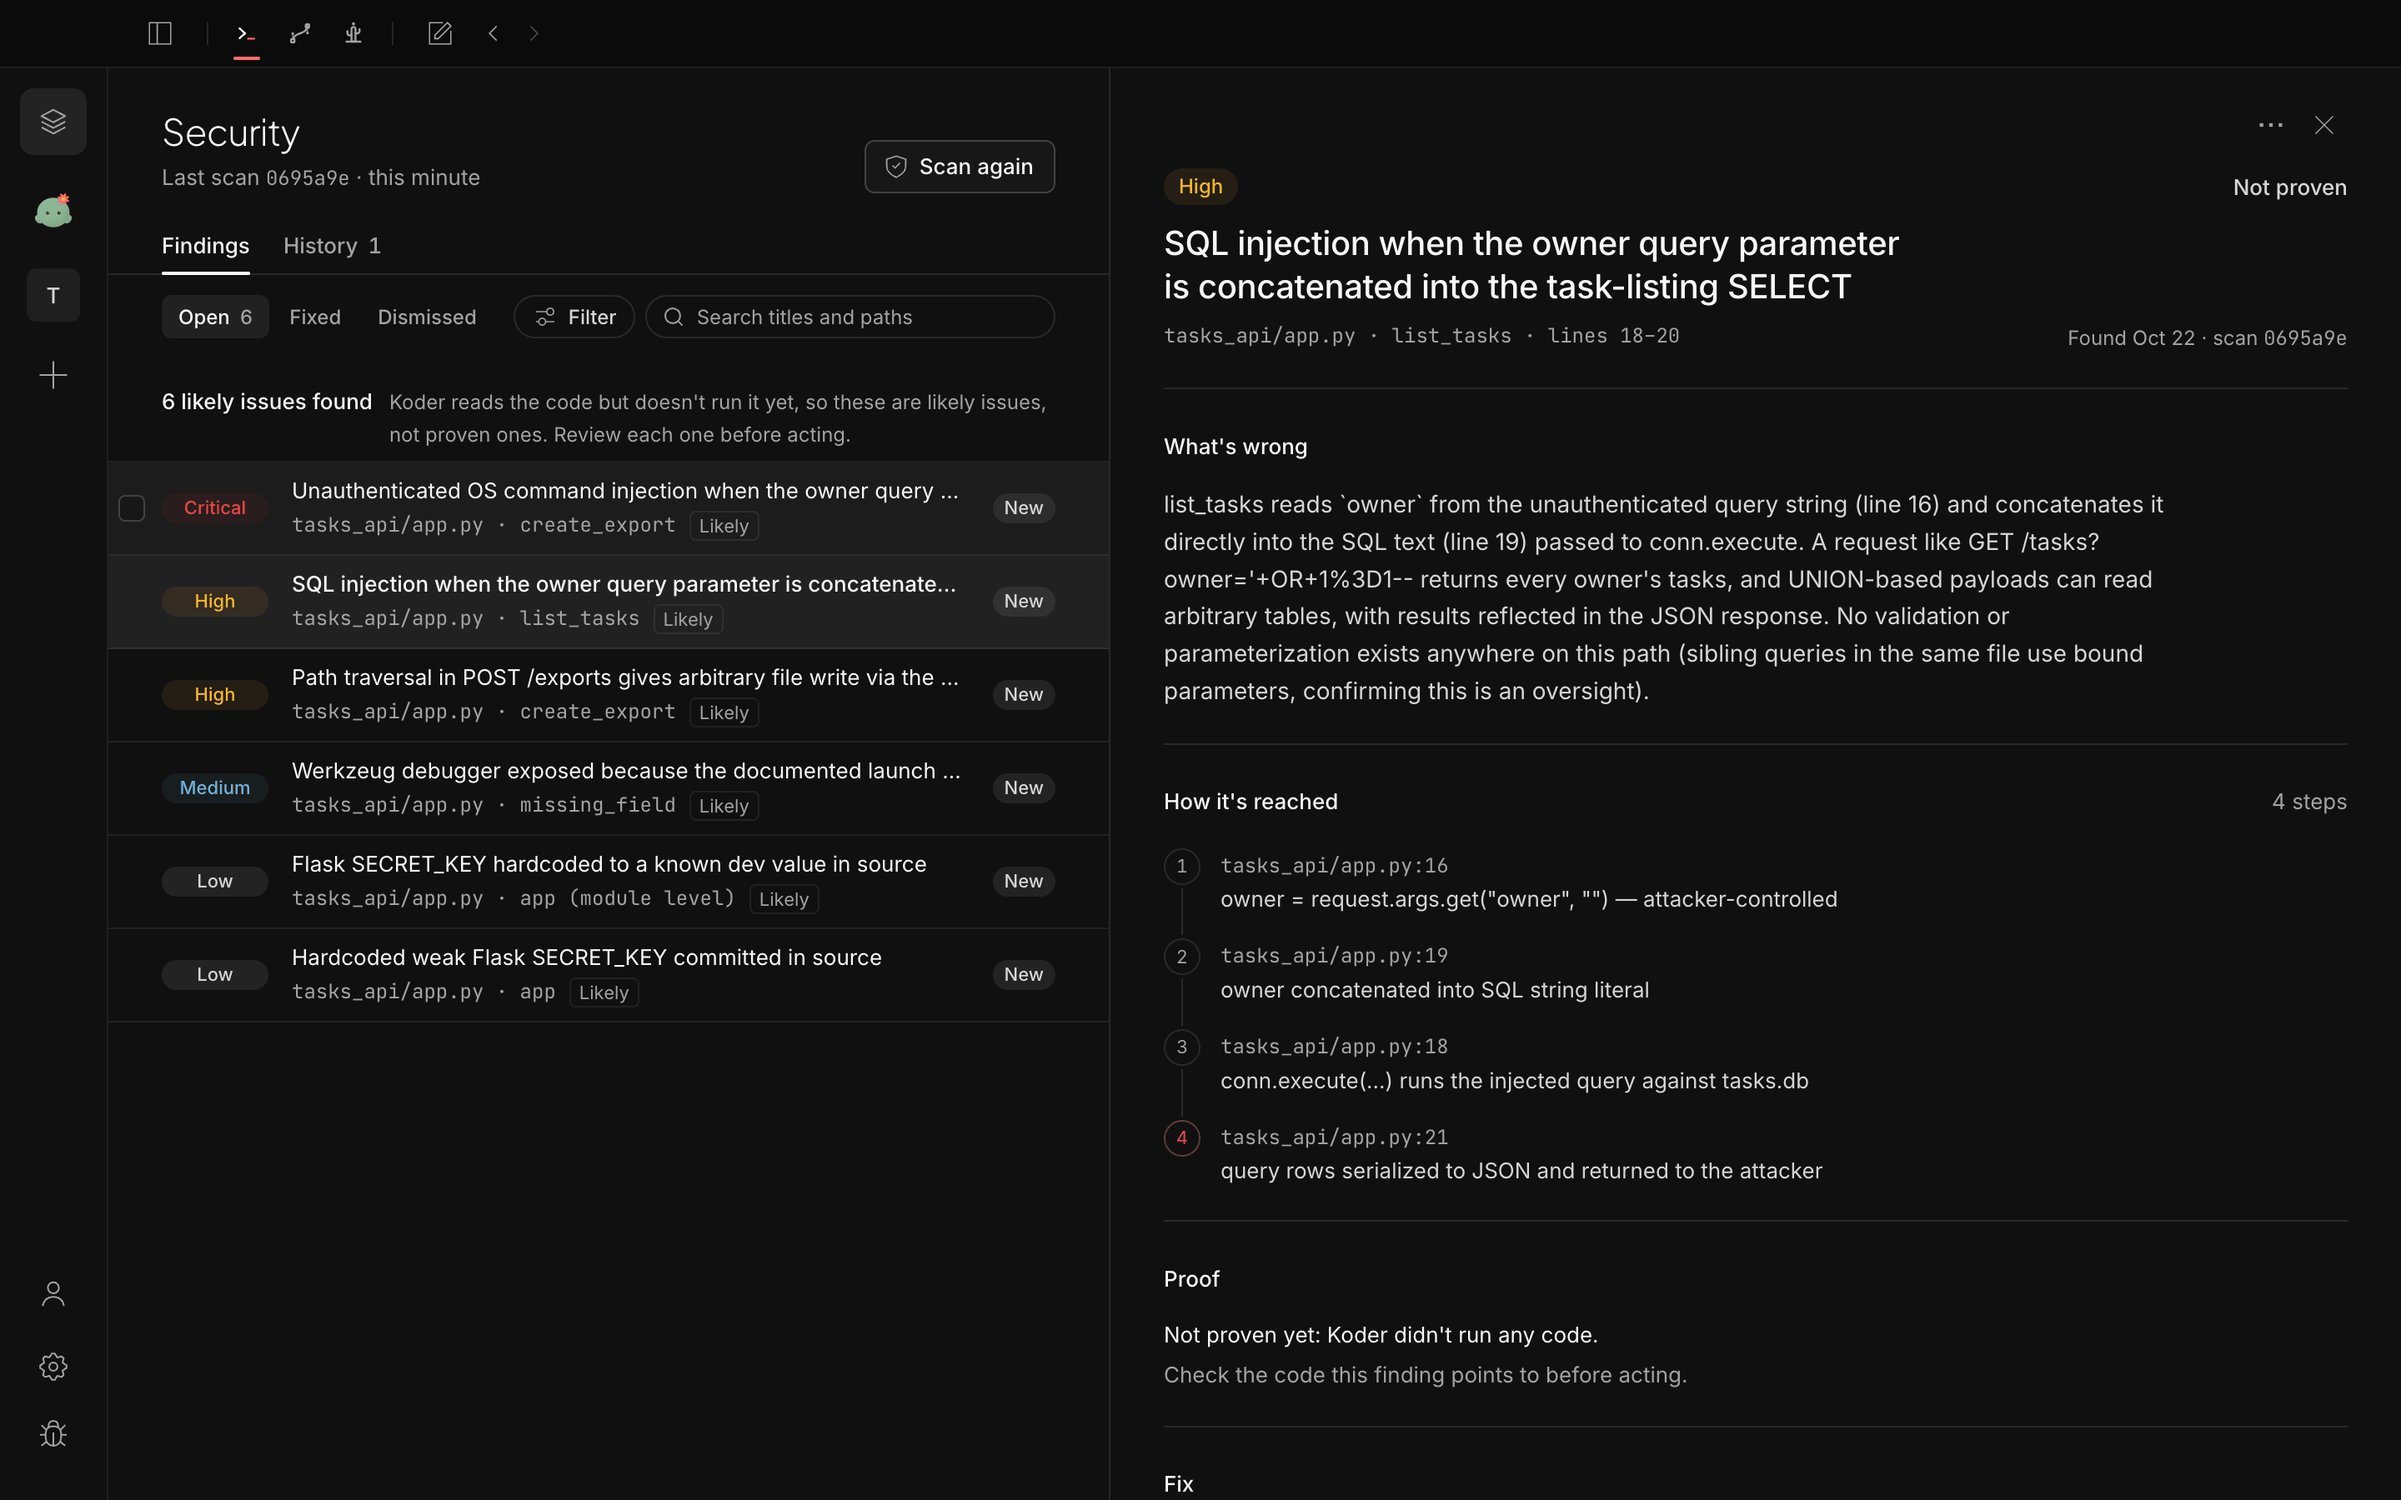
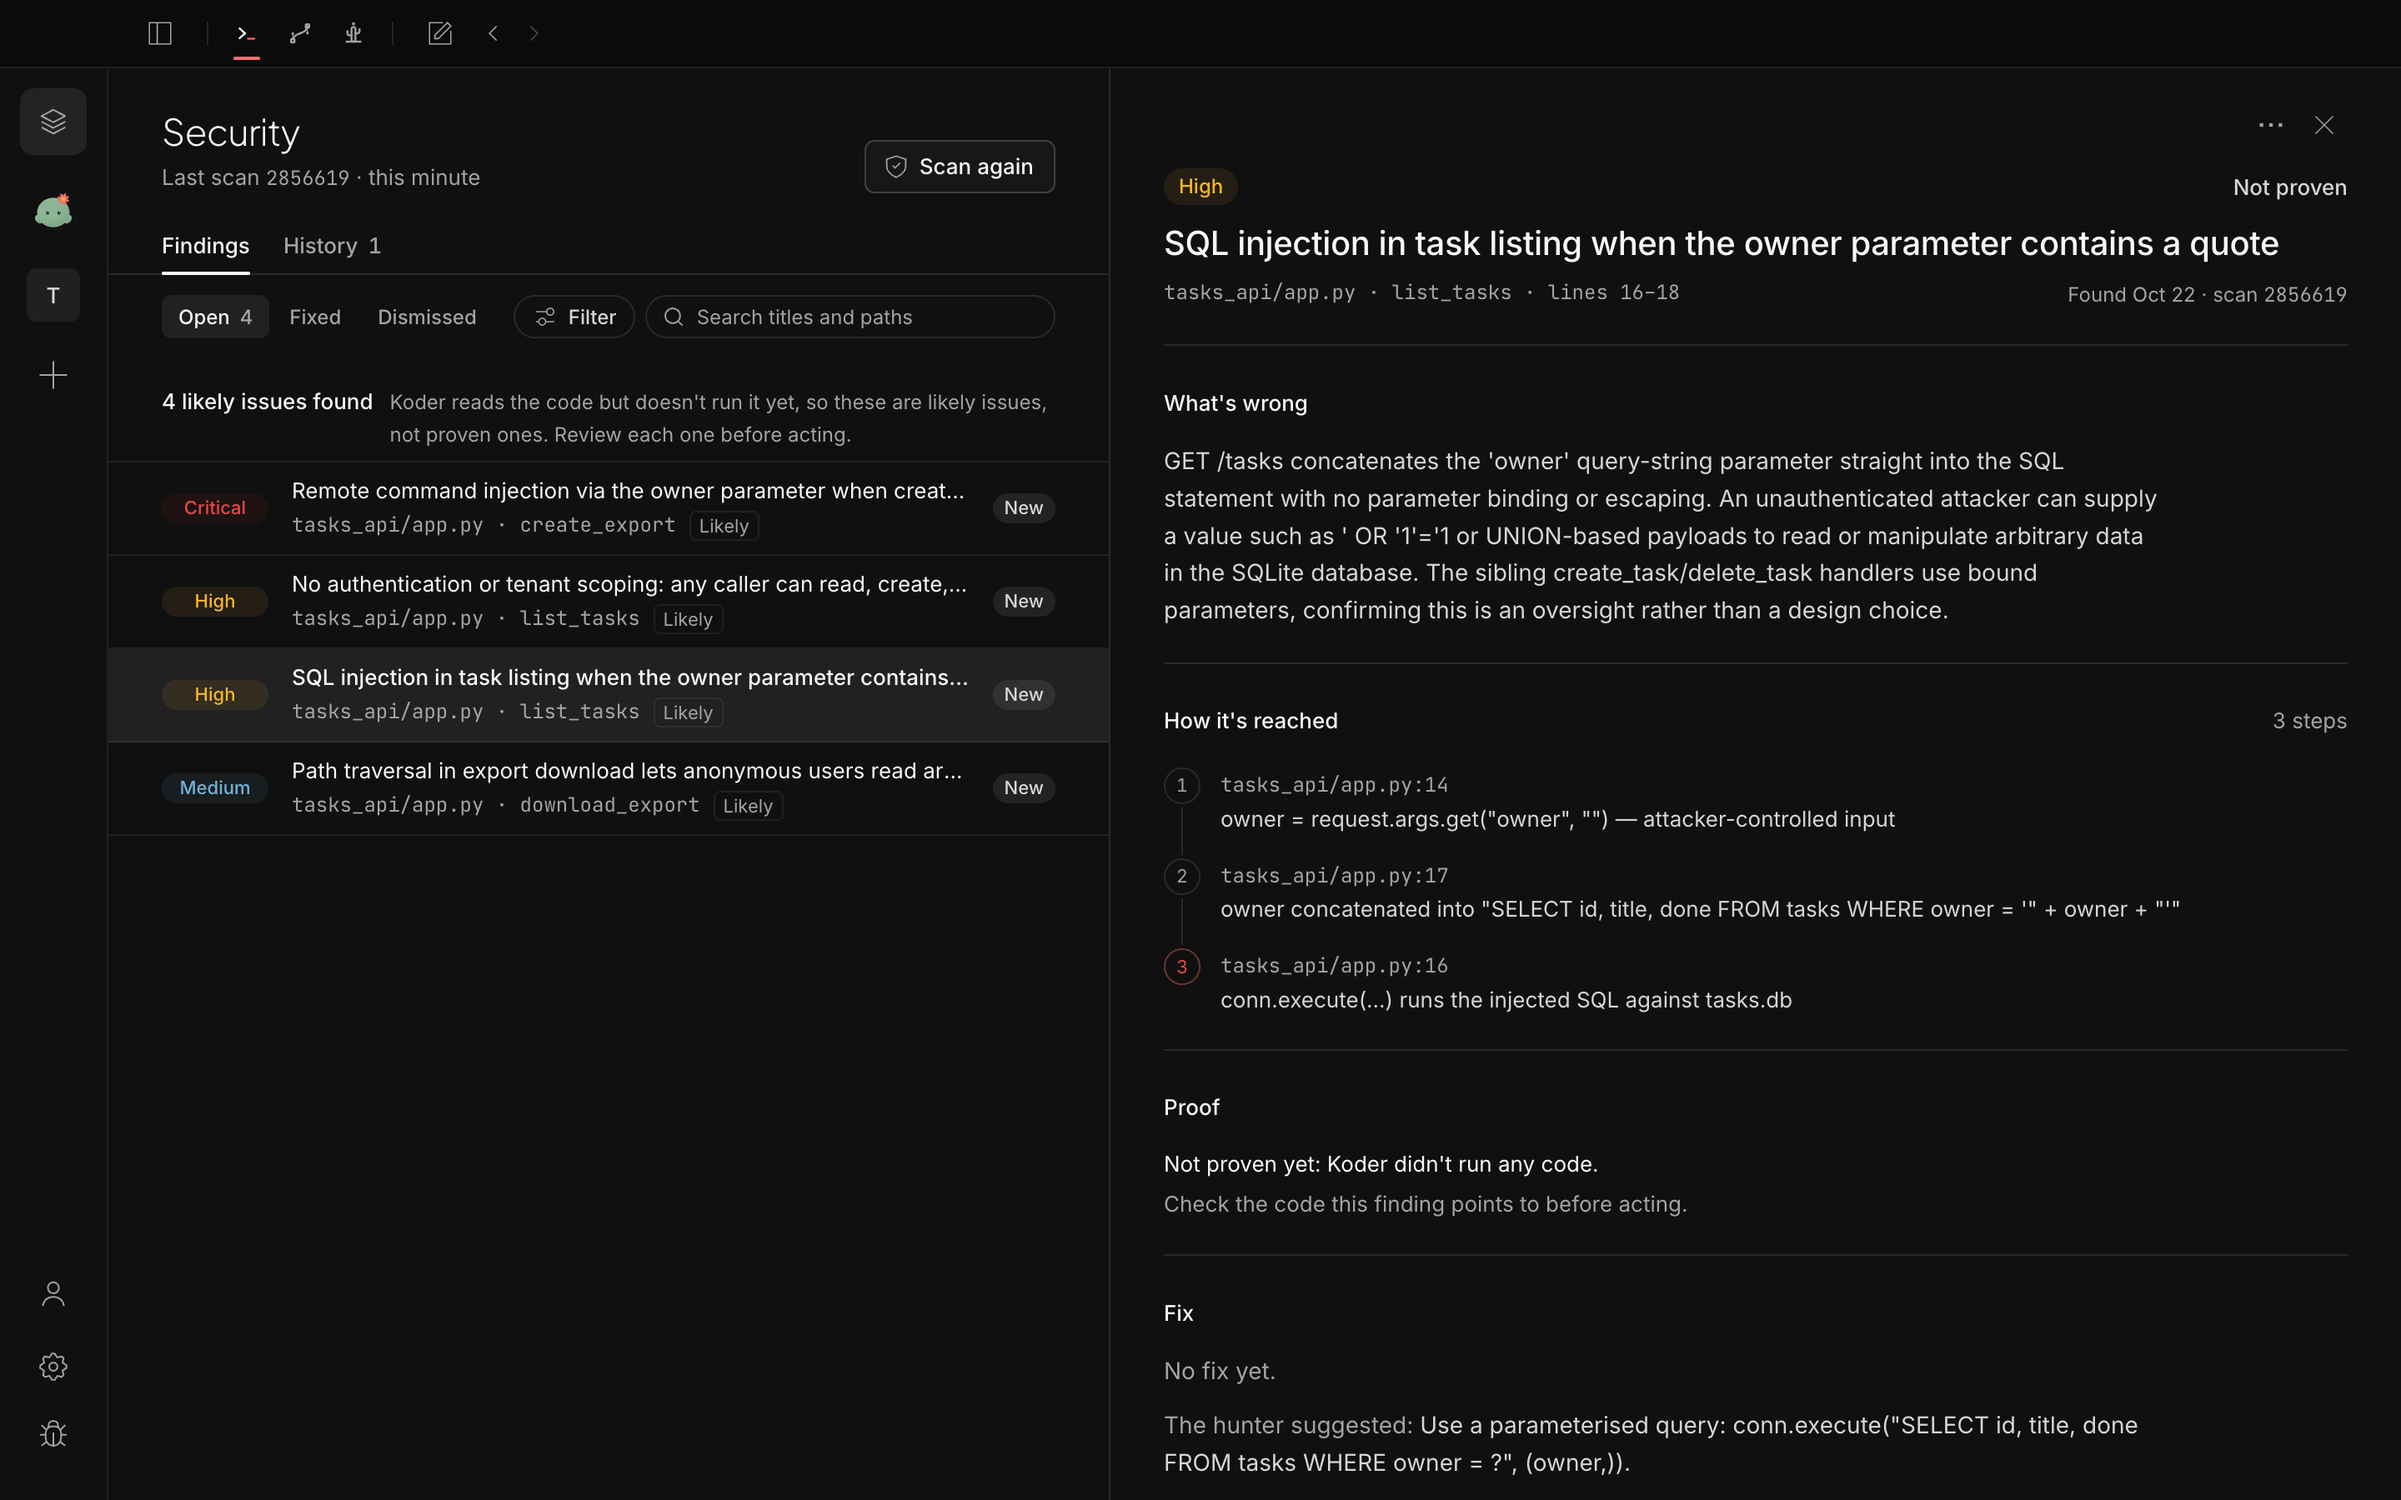
docs: retake hero, Scan and terminal captures
The hero now starts at the request and reads request, steps, diff. Scan
lists four distinct findings. The terminal capture shows the session
title, the request, the steps and Done in one frame.

diff --git a/README.md b/README.md
@@ -25,7 +25,7 @@ Describe the change you want in plain language. Koder reads your code, makes edi
 
 </div>
 
-![Koder desktop app: a session that fixed a SQL injection and ran the tests, with the two-file diff open in the Review panel](docs/assets/desktop-large-logo.png)
+![Koder desktop app: a request to fix a SQL injection, the steps Koder took to read, edit and test the code, and the two-file diff in the Review panel](docs/assets/desktop-large-logo.png)
 
 ## What is Koder?
 
@@ -82,7 +82,7 @@ Secret files such as `.env` always ask before they are read, including when the 
 
 ## Security scanning with Scan
 
-![Koder Scan listing six likely security issues by severity, with a SQL injection finding open beside the list showing what is wrong and how it is reached](docs/assets/scan.png)
+![Koder Scan listing four likely security issues by severity, with a SQL injection finding open beside the list showing what is wrong and how it is reached](docs/assets/scan.png)
 
 Scan reads a repository for security bugs and lists what it finds, worst first. Each finding explains what is wrong, traces step by step how an attacker's input reaches it, and can come with a proposed fix. Open **Security** from a project in the sidebar or from the command palette, or run `koder scan` in the terminal.
 
@@ -115,9 +115,9 @@ Connections are aixplain team assets. Verification and actions may use credits.
 
 The terminal app has the same agent, permissions and sessions as the desktop app, with keyboard and mouse control. Edits show as inline diffs, and a side panel tracks context, spend, changed files and tool use. Code is highlighted offline. Run `koder` in a project to open it, or `koder run` to use the agent from scripts and automation.
 
-| Home | Working session |
+| Home | A finished turn |
 | --- | --- |
-| ![The Koder terminal app home screen with the logo and the prompt](docs/assets/terminal-home.png) | ![The Koder terminal app mid-turn: a split diff of the new endpoint and its test, a running command, and the context, changes and tools panels](docs/assets/terminal.png) |
+| ![The Koder terminal app home screen with the logo, the prompt and recent sessions](docs/assets/terminal-home.png) | ![A finished turn in the Koder terminal app: the session title, the request, file reads, split diffs of the new endpoint and its test, the test run and Done, with the context, changes and tools panels](docs/assets/terminal.png) |
 
 Switch autonomy with `/auto` (`ask`, `rules`, `read-only`, `auto` or `full`), watch a pull request's checks with `/pr`, and steer a running turn without stopping its background commands.
 
